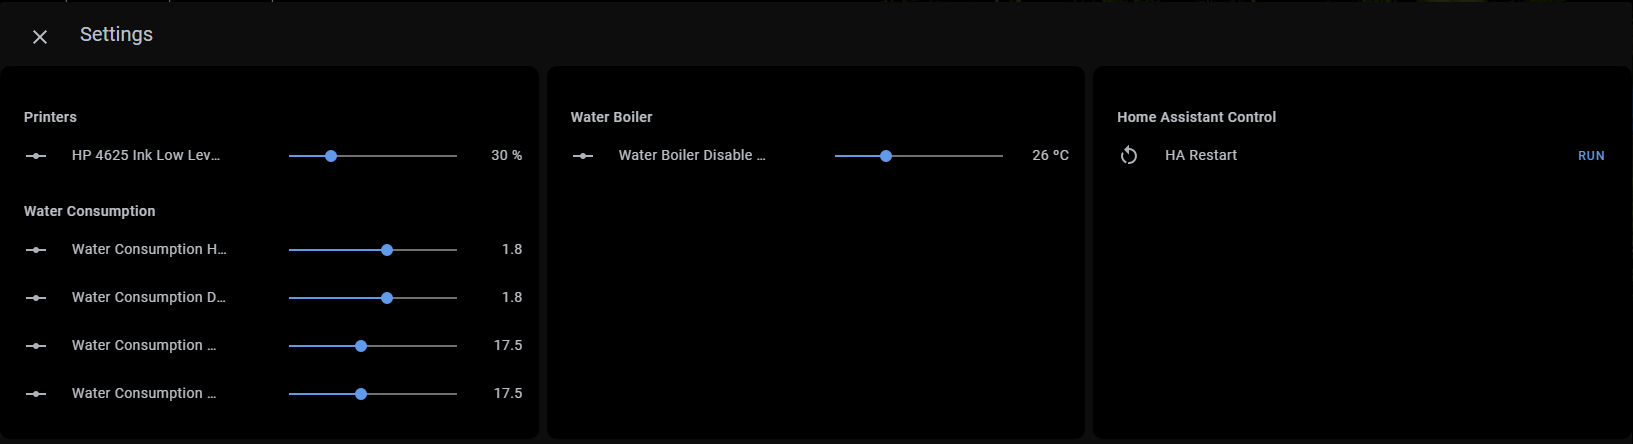
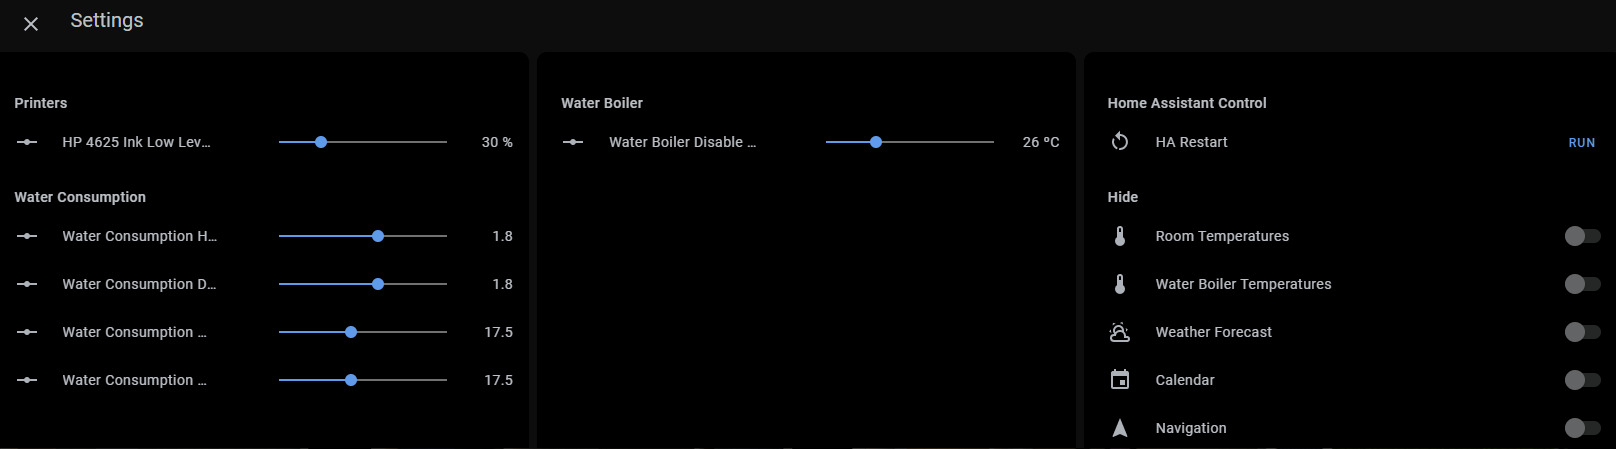
* Parameterized conditional entity * Updated readme and screenshots

diff --git a/README.md b/README.md
@@ -1,8 +1,8 @@
 # My Home Assistant Configuration
 ## Overview
-This is my HomeAssistant configuration.
+This is my HomeAssistant Dashboard configuration.
 
-The main goal was to have the day-to-day activations and information immediately visible and everything else (like schedulers, history graphs) available upto 1-click away.
+The main goal was to have the day-to-day activations and information readily visible and everything else (like schedulers, history graphs) available upto 1-click away.
 My main interface with the systen is via two wall mounted DIY 15.6 RaspberryPi based touchscreens. One on each floor.
 
 You can take a glance at the functionality in the below video (although not up-to-date):
@@ -10,12 +10,12 @@ You can take a glance at the functionality in the below video (although not up-t
 [![Floorplan](ScreenShots/floorplan.png?raw=true)](https://www.youtube.com/watch?v=o_AKHEyWXR0)
 
 The UI is defined in the *lovelace_new_data.yaml* file.
-Each section has a header and implements a different part of the UI.
+The files is divided into sections with each section having a commented header. Each sections implements a different part of the Dashboard.
 
 All house images were created using SweetHome3D software and manipulated using GIMP image editing SW.
 Two main floorplan images are the starting point:
 * All lights OFF
-* All light ON - from there each light ON image was created seperately
+* All light ON - from there each light ON image was created/extrated seperately
 
 Only custom cards can be displayed on the UI so if an internal HA card need to be shown then a custom card template should be used as wrapper.
 
@@ -322,7 +322,7 @@ The settings page is divided into columns. Each column can have multiple section
   ![Settings Tap Action](ScreenShots/settings_tap_action.png?raw=true)
 
 ### UnRaid
-TBD
+Display the WEBUI of the unRaid Server (or any webpage for that matter) as a popup window.
 
 ### Water
 Displays water consumption data in graphs
@@ -344,7 +344,11 @@ The look&feel and list of Actions are defined in and taken from the DEFINITIONS 
 * Hold: Opens a more-info popup window
 
 ### Conditional Entity
-TBD
+Displays enities only when they meet a certain condition (conditional). For example entities that should only be displayed when they are on.
+Once the entity is displayed you can also control what the tap_action does.
+The list of entities, conditions, tap_action and look&feel are defined and taken from the DEFINITIONS section.
+
+  ![Conditional Entity Example 1](ScreenShots/conditional_entity_1.png?raw=true) ![Conditional Entity Example 2](ScreenShots/conditional_entity_2.png?raw=true) ![Conditional Entity Example 3](ScreenShots/conditional_entity_3.png?raw=true)
 
 ### Refresh Reload
 Buttons for refreshing/reloading UI
